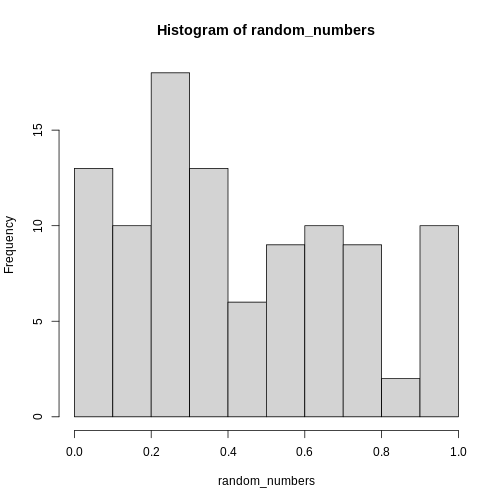
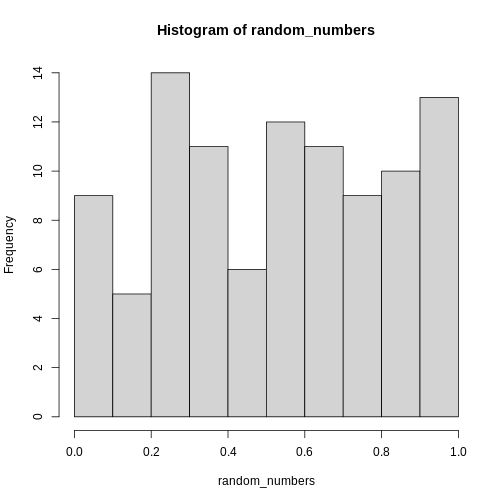
markdown source builds
Auto-generated via `{sandpaper}`
Source  : b9bc65478793bdfb3ea31793bc34e610d1f4d692
Branch  : main
Author  : enerammer <enerammer@gmail.com>
Time    : 2024-11-22 09:40:31 +0000
Message : Har lavet en rmd-fil under lessons, og tilføjet data fra matematik kurset. Er ikke indsat som rigtig lesson

diff --git a/kmeans.md b/kmeans.md
@@ -144,31 +144,31 @@ clustering
 ```
 
 ``` output
-K-means clustering with 3 clusters of sizes 47, 69, 62
+K-means clustering with 3 clusters of sizes 62, 47, 69
 
 Cluster means:
    Alcohol Malicacid      Ash Alcalinityofash Magnesium Totalphenols Flavanoids
-1 13.80447  1.883404 2.426170        17.02340 105.51064     2.867234   3.014255
-2 12.51667  2.494203 2.288551        20.82319  92.34783     2.070725   1.758406
-3 12.92984  2.504032 2.408065        19.89032 103.59677     2.111129   1.584032
+1 12.92984  2.504032 2.408065        19.89032 103.59677     2.111129   1.584032
+2 13.80447  1.883404 2.426170        17.02340 105.51064     2.867234   3.014255
+3 12.51667  2.494203 2.288551        20.82319  92.34783     2.070725   1.758406
   Nonflavanoidphenols Proanthocyanins Colorintensity       Hue
-1           0.2853191        1.910426       5.702553 1.0782979
-2           0.3901449        1.451884       4.086957 0.9411594
-3           0.3883871        1.503387       5.650323 0.8839677
+1           0.3883871        1.503387       5.650323 0.8839677
+2           0.2853191        1.910426       5.702553 1.0782979
+3           0.3901449        1.451884       4.086957 0.9411594
   OD280OD315ofdilutedwines   Proline
-1                 3.114043 1195.1489
-2                 2.490725  458.2319
-3                 2.365484  728.3387
+1                 2.365484  728.3387
+2                 3.114043 1195.1489
+3                 2.490725  458.2319
 
 Clustering vector:
-  [1] 1 1 1 1 3 1 1 1 1 1 1 1 1 1 1 1 1 1 1 3 3 3 1 1 3 3 1 1 3 1 1 1 1 1 1 3 3
- [38] 1 1 3 3 1 1 3 3 1 1 1 1 1 1 1 1 1 1 1 1 1 1 2 3 2 3 2 2 3 2 2 3 3 3 2 2 1
- [75] 3 2 2 2 3 2 2 3 3 2 2 2 2 2 3 3 2 2 2 2 2 3 3 2 3 2 3 2 2 2 3 2 2 2 2 3 2
-[112] 2 3 2 2 2 2 2 2 2 3 2 2 2 2 2 2 2 2 2 3 2 2 3 3 3 3 2 2 2 3 3 2 2 3 3 2 3
-[149] 3 2 2 2 2 3 3 3 2 3 3 3 2 3 2 3 3 2 3 3 3 3 2 2 3 3 3 3 3 2
+  [1] 2 2 2 2 1 2 2 2 2 2 2 2 2 2 2 2 2 2 2 1 1 1 2 2 1 1 2 2 1 2 2 2 2 2 2 1 1
+ [38] 2 2 1 1 2 2 1 1 2 2 2 2 2 2 2 2 2 2 2 2 2 2 3 1 3 1 3 3 1 3 3 1 1 1 3 3 2
+ [75] 1 3 3 3 1 3 3 1 1 3 3 3 3 3 1 1 3 3 3 3 3 1 1 3 1 3 1 3 3 3 1 3 3 3 3 1 3
+[112] 3 1 3 3 3 3 3 3 3 1 3 3 3 3 3 3 3 3 3 1 3 3 1 1 1 1 3 3 3 1 1 3 3 1 1 3 1
+[149] 1 3 3 3 3 1 1 1 3 1 1 1 3 1 3 1 1 3 1 1 1 1 3 3 1 1 1 1 1 3
 
 Within cluster sum of squares by cluster:
-[1] 1360950.5  443166.7  566572.5
+[1]  566572.5 1360950.5  443166.7
  (between_SS / total_SS =  86.5 %)
 
 Available components:
@@ -188,9 +188,9 @@ table()
 ``` output
      true
 quess  1  2  3
-    1 46  1  0
-    2  0 50 19
-    3 13 20 29
+    1 13 20 29
+    2 46  1  0
+    3  0 50 19
 ```
 
 The algorithm have no idea about the numbering, the three groups are numbered 

diff --git a/clt.md b/clt.md
@@ -45,7 +45,7 @@ mean(random_numbers)
 ```
 
 ``` output
-[1] 0.4296581
+[1] 0.5241619
 ```
 The important point of the Central Limit Theorem is, that if we take a large
 number of random samples, and calculate the mean of each of these samples,
@@ -59,7 +59,7 @@ mean(runif(100))
 ```
 
 ``` output
-[1] 0.461832
+[1] 0.5737366
 ```
 And we can use the `replicate()` function to repeat that calculation several times, in this case 1000 times:
 

diff --git a/normal-distribution.md b/normal-distribution.md
@@ -196,7 +196,7 @@ rnorm(5, mean = 0, sd = 1 )
 ```
 
 ``` output
-[1] -0.5005429  1.0557606  0.7175314  1.6939448 -0.5742654
+[1]  0.8970769 -0.7782612  0.3412105 -0.4726352 -1.8759804
 ```
 Den returnerer (her) fem tilfældige værdier fra en normalfordeling med (her) 
 middelværdi 0 og standardafvigelse 1.
